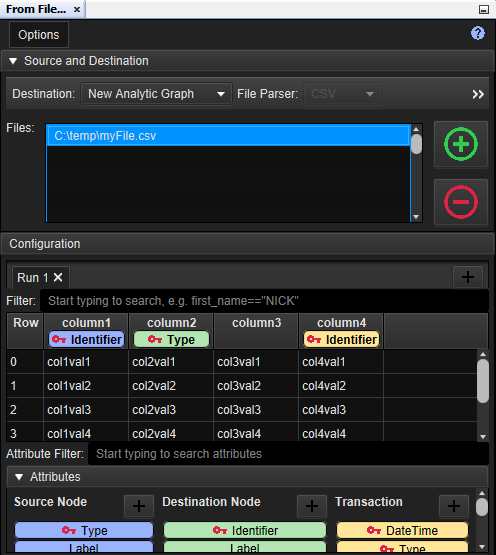
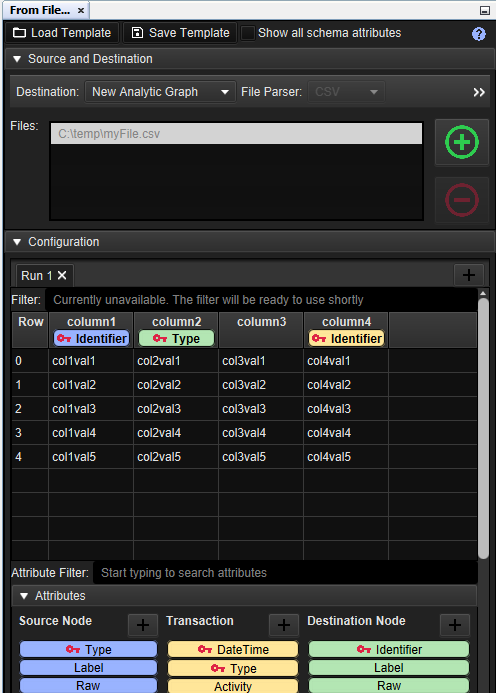
updated help pages that had gone out of date

diff --git a/CoreDataAccessView/src/au/gov/asd/tac/constellation/views/dataaccess/docs/data-access-options.md b/CoreDataAccessView/src/au/gov/asd/tac/constellation/views/dataaccess/docs/data-access-options.md
@@ -6,18 +6,18 @@ menu in the top left corner of the Data Access View.
 
 ## Saving and loading data access preferences
 
-Data access preferences can be saved and loaded using the "Save" and
-"Load..." options.
+Data access preferences can be saved and loaded using the "Save Templates" and
+"Load Templates" options.
 
 When a preference is saved, you are prompted to name the preference. If
 a preference of that name has already been saved, you will be asked if
 you want to overwrite it. Preferences are saved by default in the
-directory HOME_DIRECTORY/.CONSTELLATION/DataAccessView. (The name of the
+directory &lt;HOME_DIRECTORY&gt;/.CONSTELLATION/DataAccessView. (The name of the
 file in which the preference is saved is encoded so it doesn't clash
 with file system limitations.) Files in this directory can be copied and
 deleted using your favourite file management utility.
 
-When you select "Load...", you will be presented with a list of saved
+When you select "Load Templates", you will be presented with a list of saved
 preferences. Select one from the list and select OK. The preference will
 be loaded and will appear exactly as it was when it was saved. You can
 also remove a saved preference from here by selecting one from the list
@@ -51,12 +51,12 @@ creates.
 ## Deselecting plugins on Go
 
 Data Access plugins can be deselected after pressing the Go button via
-the "Deselect Plugins on Go" option.
+the "Deselect on Go" option.
 
-When you check the "Deselect Plugins on Go" item, data access plugins
+When you check the "Deselect on Go" item, data access plugins
 that are ticked will be deselected after pressing "Go". This will
 persist until the item is unchecked.
 
-When "Deselect Plugins on Go" is unchecked, data access plugins will
+When "Deselect on Go" is unchecked, data access plugins will
 remain ticked even after "Go" is pressed and will need to be unticked
 manually.

diff --git a/CoreImportExportPlugins/src/au/gov/asd/tac/constellation/plugins/importexport/docs/import-from-file.md b/CoreImportExportPlugins/src/au/gov/asd/tac/constellation/plugins/importexport/docs/import-from-file.md
@@ -51,16 +51,15 @@ in detail later on):
 5.  Right click an attribute for more options.
 6.  Click on the Import button to import the data to your destination
     graph.
-7.  Save your template using Options -> Save.
+7.  Save your template using "Save Template".
 8.  Share the template
 
 Hints:
 
--   See all supported attributes using Options -> Show all schema
-    attributes
+-   See all supported attributes "Show all schema attributes"
 -   Hover over the attribute name for a tooltip.
 -   Filter in the Configuration Pane by adding searches of the form
-    \<column_name> =="\<search text>" E.g. first_name=="Nick".
+    &lt;column\_name&gt; =="&lt;search text&gt;" E.g. first\_name=="Nick".
 
 ## Add and Remove Files to Import
 
@@ -101,7 +100,7 @@ an attribute onto a column in the preview.
 By default, not all attributes available to the selected schema are
 visible because there can be an overwhelming number of attributes
 depending on the schema. To see all possible attributes you can apply to
-a graph go to Options -> Show all schema attributes.
+a graph, select "Show all schema attributes".
 
 If you have a specific format for example the DateTime, then you can
 right click on the DateTime attribute and select the format from the
@@ -141,7 +140,7 @@ later time, using the "Options" menu in the top left corner.
 When a template is saved, the import definition name is used to name the
 saved query. If a query of that name has already been saved, you will be
 asked if you want to overwrite it. Templates are saved in the directory
-"\<HOME_DIRECTORY>/.CONSTELLATION/ImportDelimited". (The name of the
+"&lt;HOME_DIRECTORY&gt;/.CONSTELLATION/ImportDelimited". (The name of the
 file in which the template is saved is encoded so it doesn't clash with
 file system limitations.) Files in this directory can be deleted using
 your favourite file management utility.

diff --git a/CoreHistogramView/src/au/gov/asd/tac/constellation/views/histogram/docs/histogram-view.md b/CoreHistogramView/src/au/gov/asd/tac/constellation/views/histogram/docs/histogram-view.md
@@ -210,7 +210,9 @@ Histogram.
 
 The Arrow Button will toggle Ascending/Descending values.
 
--   *Label* - Will sort the rows of the Histogram alphabetically by
+-   *Label (Number)* - Will sort the rows of the Histogram numerically by
+    Property Value label.
+-   *Label (Text)* - Will sort the rows of the Histogram alphabetically by
     Property Value label.
 -   *Total Count* - Will sort the rows of the Histogram in order of
     Count values.
@@ -281,3 +283,7 @@ and Save Bins To Clipboard
 -   *Save Bins to Clipboard* - Will copy the Property Values and Counts
     displayed in the Histogram View to the clipboard, which can be
     pasted into a text editor in a tab delimited format.
+-   *Decrease Height of Each Bin* - Decreases the height of the bar for each 
+    Count bin.
+-   *Increase Height of Each Bin* - Increases the height of the bar for each 
+    Count bin.

diff --git a/CoreLayersView/src/au/gov/asd/tac/constellation/views/layers/docs/layers-view.md b/CoreLayersView/src/au/gov/asd/tac/constellation/views/layers/docs/layers-view.md
@@ -57,7 +57,7 @@ attribute value toggled to 0.0 (invisible).
 Arrangements on graphs with a visual schema will be ran on the base
 layer 0.
 
-<img src="../constellation/CoreLayersView/src/au/gov/asd/tac/constellation/views/layers/docs/resources/layers-view-example.png" alt="Layers View" />
+<img src="../constellation/CoreLayersView/src/au/gov/asd/tac/constellation/views/layers/docs/resources/LayersView.png" alt="Layers View" />
 
 ## Creating and Using Layers
 
@@ -72,6 +72,9 @@ everything on layer x, as well as everything on layer y (i.e. the union
 of all selected layers). Combining both query and manual layers will
 produce undefined results and should not be used when accuracy of
 results is needed.
+
+To delete a layer, simply press the Delete button next to the layer you want to 
+remove.
 
 ## Layer Types
 

diff --git a/CoreDataAccessView/src/au/gov/asd/tac/constellation/views/dataaccess/docs/data-access-view.md b/CoreDataAccessView/src/au/gov/asd/tac/constellation/views/dataaccess/docs/data-access-view.md
@@ -84,8 +84,8 @@ Icon](../constellation/CoreDataAccessView/src/au/gov/asd/tac/constellation/views
 which will allow you to add or remove plugins you have selected from the
 favourites category.
 
-## Options Menu
+## Workflow Options
 
 Refer to the
 [Options](../constellation/CoreDataAccessView/src/au/gov/asd/tac/constellation/views/dataaccess/docs/data-access-options.md)
-page for more details on the options menu.
+page for more details on the Workflow Options menu.
